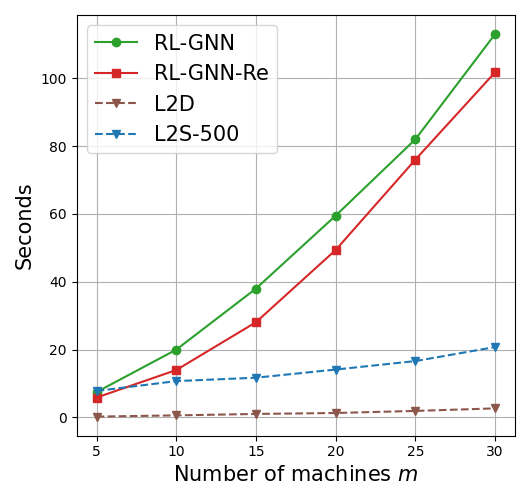
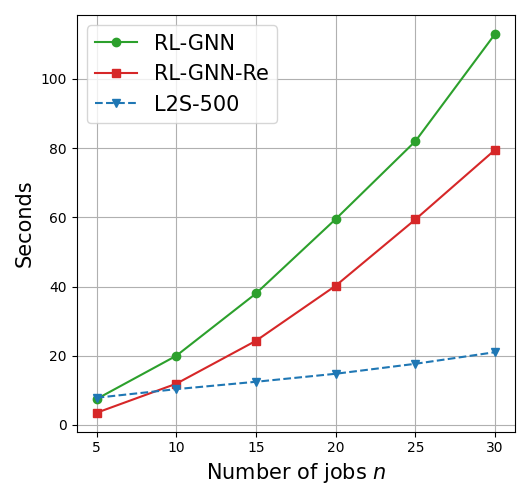
upload
- change rollout data

diff --git a/plt/plot_complexity.py b/plt/plot_complexity.py
@@ -2,7 +2,7 @@ import numpy as np
 import matplotlib.pyplot as plt
 
 
-fixed = 'm=5'  # 'j=30', 'm=5'
+fixed = 'j=30'  # 'j=30', 'm=5'
 datas = [
     'RL-GNN_complexity_fixed_{}.npy'.format(fixed),
     'RL-GNN_complexity_fixed_{}_reimplement.npy'.format(fixed),
@@ -13,9 +13,10 @@ datas = [
 times_for_plot = []
 
 for data in datas:
-    times_for_plot.append(np.load(data))
-
+    times_for_plot.append(np.load(data).reshape(-1))
 x_labels = [str(5+5*i) for i in range(times_for_plot[1].shape[0])]
+print(times_for_plot)
+print(x_labels)
 
 # plot parameters
 x_label_scale = 15
@@ -27,23 +28,23 @@ save = True
 save_file_type = '.png'
 
 
-# obj1 = times_for_plot[0]  # RL-GNN
+obj1 = times_for_plot[0]  # RL-GNN
 obj2 = times_for_plot[1]  # RL-GNN Reimplement
 # obj3 = times_for_plot[2]  # L2D
-# obj4 = times_for_plot[3][:, 0].reshape(-1)  # ours-500
+obj4 = times_for_plot[3]  # ours-500
 
 # plotting...
 plt.figure(figsize=(5.3, 5))
-# plt.xlabel('Number of jobs {}'.format(r'$n$'), {'size': x_label_scale})
-plt.xlabel('Number of machines {}'.format(r'$m$'), {'size': x_label_scale})
+plt.xlabel('Number of jobs {}'.format(r'$n$'), {'size': x_label_scale})
+# plt.xlabel('Number of machines {}'.format(r'$m$'), {'size': x_label_scale})
 
 plt.ylabel('Seconds', {'size': y_label_scale})
 plt.grid()
 x = np.array(x_labels)
-# plt.plot(x, obj1, color='tab:green', marker="o", label='RL-GNN')
+plt.plot(x[:obj1.shape[0]], obj1, color='tab:green', marker="o", label='RL-GNN')
 plt.plot(x, obj2, color='tab:red', marker="s", label='RL-GNN-Re')
 # plt.plot(x, obj3, color='tab:brown', linestyle="--", marker="v", label='L2D')
-# plt.plot(x, obj4, color='tab:blue', linestyle="--", marker="v", label='L2S-500')
+plt.plot(x, obj4, color='tab:blue', linestyle="--", marker="v", label='L2S-500')
 
 plt.tight_layout()
 plt.legend(fontsize=anchor_text_size)

diff --git a/rollout.py b/rollout.py
@@ -65,7 +65,7 @@ if __name__ == "__main__":
     # j = [5, 10, 15, 20, 25, 30, 35, 40, 45, 50]
     # m = [5 for _ in range(len(j))]
 
-    m = [5, 10, 15, 20, 25, 30, 35, 40, 45, 50]
+    m = [5, 10, 15, 20, 25, 30]
     j = [30 for _ in range(len(m))]
 
     # m = [5]
